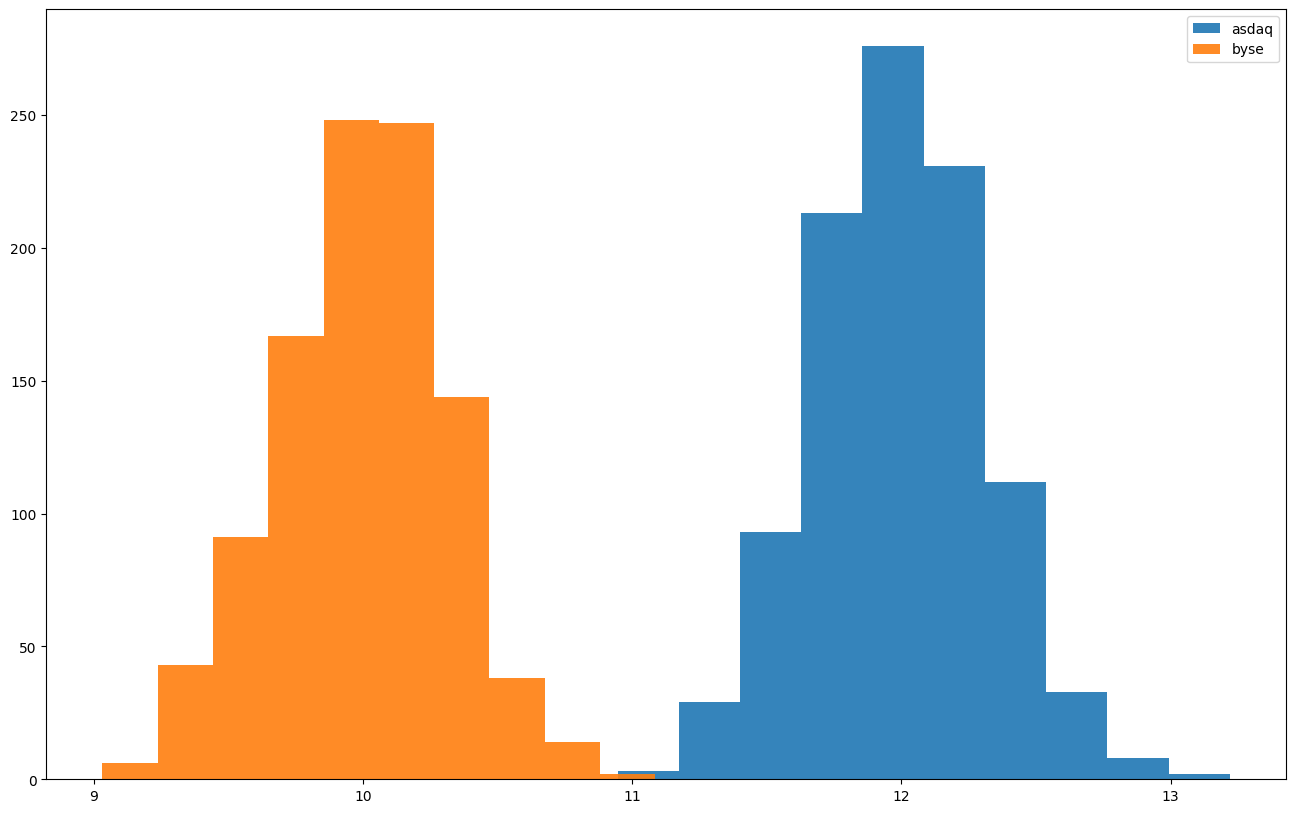
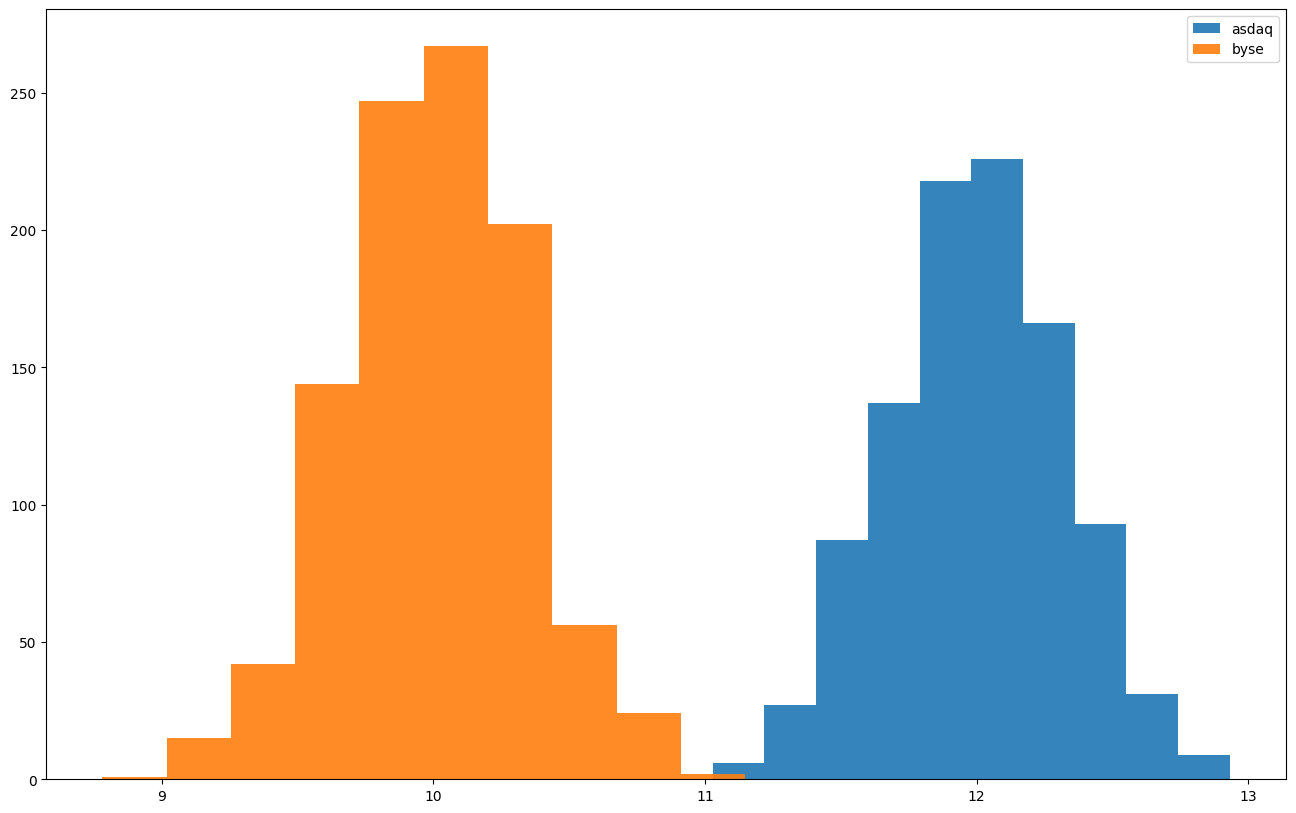
chore: update notes

diff --git a/docs/02_ab_testing.v2.md b/docs/02_ab_testing.v2.md
@@ -50,10 +50,10 @@ byse = TimeOfDayEffectWrapper(byse)
 print(Money(byse.sample()))
 ```
 
-    $9.89
-    $11.07
-    $14.18
-    $10.88
+    $12.60
+    $12.07
+    $11.97
+    $10.47
 
 
 
@@ -62,8 +62,8 @@ print(Money(np.mean([byse.sample() for _ in range(100)])))
 print(Money(np.mean([asdaq.sample() for _ in range(100)])))
 ```
 
-    $10.10
-    $11.90
+    $10.01
+    $11.92
 
 
 
@@ -77,9 +77,9 @@ print(np.std([aggregate_measurements(100, asdaq) for _ in range(1000)]))
 print(np.std([aggregate_measurements(1000, asdaq) for _ in range(1000)]))
 ```
 
-    0.3075125625172733
-    0.10380567068958116
-    0.03113940352719048
+    0.3196349610840148
+    0.09966748498601331
+    0.031848859749219416
 
 
 
@@ -95,9 +95,9 @@ print("Std Error: {:.4f}".format(st.sem(sample_population)))
 print("Std Deviation: {:.4f}".format(sample_population.std()))
 ```
 
-    Mean: 12.0169
-    Std Error: 0.0100
-    Std Deviation: 0.3166
+    Mean: 12.0017
+    Std Error: 0.0096
+    Std Deviation: 0.3030
 
 
 
@@ -186,7 +186,7 @@ print("sem={:.4f} | std={:.4f} | mean={:.4f}".format(sem, std, mean))
 print(len(asdaq_samples))
 ```
 
-    sem=0.1561 | std=0.8407 | mean=11.8889
+    sem=0.1918 | std=1.0329 | mean=11.8742
     30
 
 
@@ -199,8 +199,8 @@ print("sem={:.4f} | std={:.4f} | mean={:.4f}".format(sem, std, mean))
 print(len(byse_samples))
 ```
 
-    sem=0.1537 | std=0.9224 | mean=10.2625
-    37
+    sem=0.1486 | std=1.0717 | mean=10.1360
+    53
 
 
 
@@ -219,7 +219,7 @@ tstat, pvalue, pvalue < 0.05, st.norm.sf(tstat)
 
 
 
-    (7.422491253525129, 5.746879110687696e-14, True, 5.746879110687696e-14)
+    (7.1634220655924175, 3.9343802630099865e-13, True, 3.9343802630099865e-13)
 
 
 
@@ -253,7 +253,7 @@ es
 
 
 
-    1.806401451348112
+    1.6232029759359887
 
 
 
@@ -267,7 +267,7 @@ statistics.stdev(asdaq_samples), np.std(asdaq_samples, ddof=1)
 
 
 
-    (0.8551193398833393, 0.8551193398833392)
+    (1.0505579720423257, 1.0505579720423257)
 
 
 
@@ -289,7 +289,7 @@ sm.NormalIndPower().solve_power(
 
 
 
-    3.78939148814927
+    4.693020839277872
 
 
 
@@ -308,7 +308,7 @@ sm.zt_ind_solve_power(
 
 
 
-    3.78939148814927
+    4.693020839277872
 
 
 
@@ -339,7 +339,7 @@ sample_size(asdaq_samples, byse_samples)
 
 
 
-    3.7533185528127317
+    4.654096132203569
 
 
 
@@ -365,6 +365,6 @@ analyze(asdaq_samples, byse_samples)
 
 
 
-    (7.422491253525129, 5.746879110687696e-14)
+    (7.1634220655924175, 3.9343802630099865e-13)
 
 
